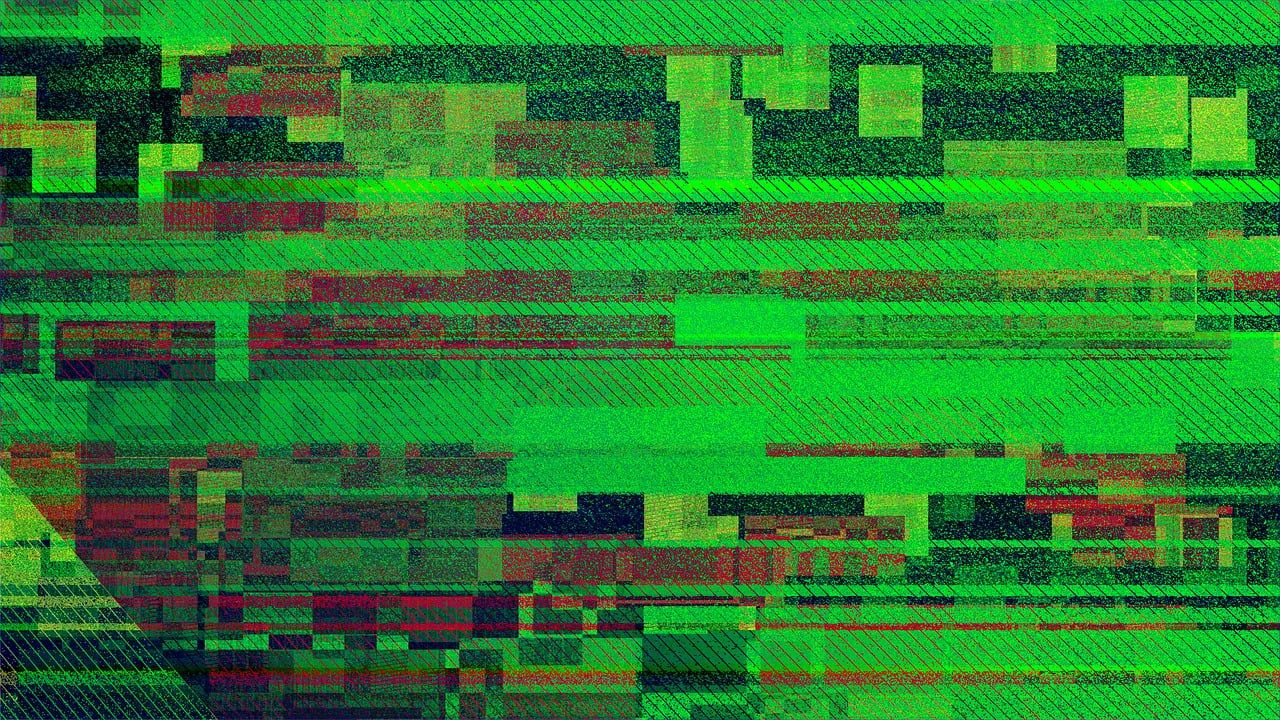
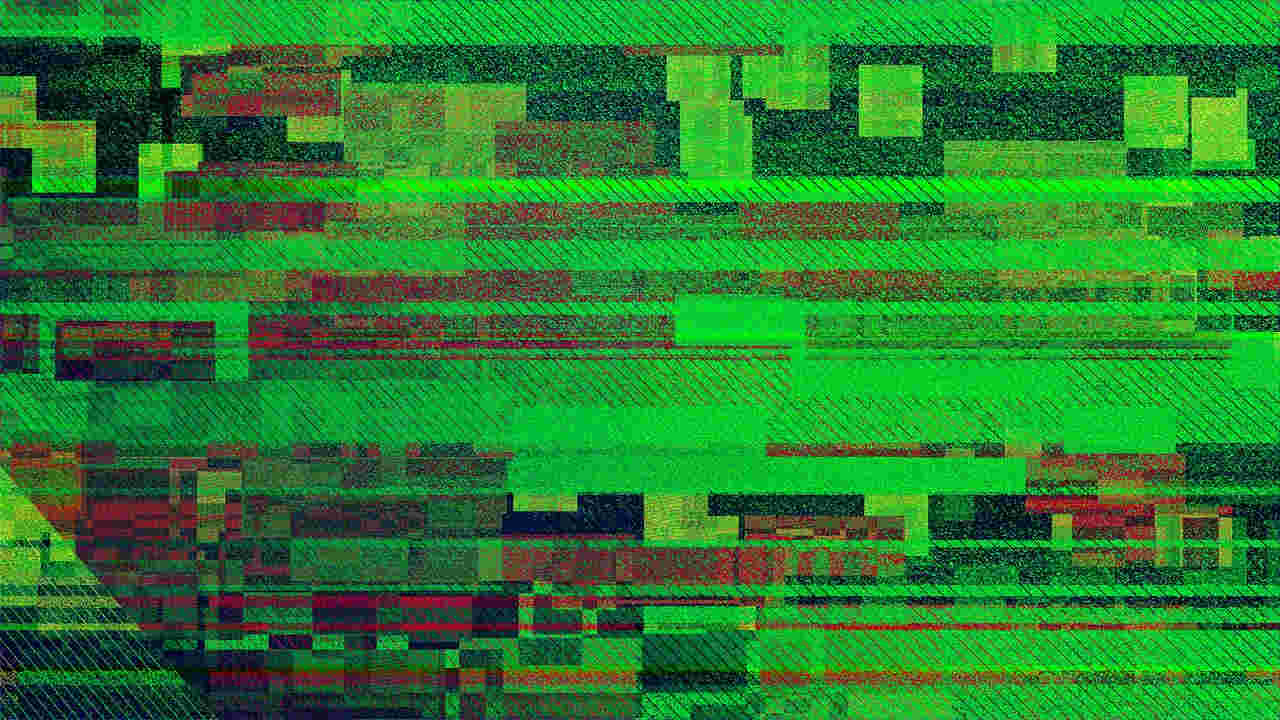
images optimisations

diff --git a/style.css b/style.css
@@ -613,7 +613,7 @@ body {
   animation-delay: 2s;
   animation-duration: 3s;
   mix-blend-mode: multiply;
-  background: url(assets/smpte-color-bars-5791787_1280.png);
+  background: url(assets/smpte-color-bars-5791787_1280.gif);
 }
 
 
